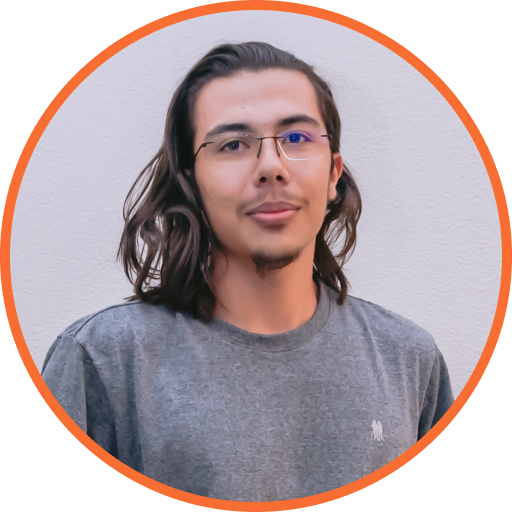
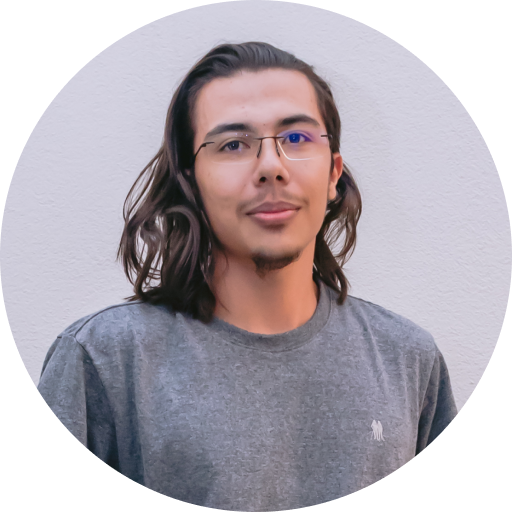
FIX: dark-side text color

Changed region(s): [[0.0, 0.0, 1.0, 1.0]]

diff --git a/src/assets/style/documentation.css b/src/assets/style/documentation.css
@@ -6,7 +6,7 @@
   --light--body-color: #fff;
 
   --dark--primary-color: var(--documentation-primary-color);
-  --dark--text-color: var(--documentation-primary-color);
+  --dark--text-color: #fff;
   --dark--body-color: #000;
 }
 
@@ -81,6 +81,17 @@ img {
   }
 }
 
+.dark-side {
+  .card {
+    img {
+      filter: brightness(1000%) saturate(0%);
+    }
+    &:hover {
+      border: 2px solid var(--text-color) !important;
+    }
+  }
+}
+
 .container-people {
   margin-top: 32px;
   display: flex !important;
@@ -99,6 +110,9 @@ img {
   .img {
     filter: brightness(0.8) saturate(0.6);
     margin-bottom: 16px;
+    background-color: var(--text-color);
+    border-radius: 50%;
+    box-shadow: 0 0 0 2px var(--text-color);
   }
 
   .left-medal,
@@ -128,11 +142,12 @@ img {
 }
 
 .person:hover {
-  color: var(--primary-color);
+  color: var(--text-color);
   cursor: pointer;
 
   .nick-name {
     opacity: 1;
+    font-size: 12px;
   }
 
   .img,

diff --git a/src/assets/style/main.css b/src/assets/style/main.css
@@ -179,8 +179,8 @@ pre code {
 .btn-outline {
   --bs-btn-color: var(--text-color) !important;
   --bs-btn-border-color: var(--text-color) !important;
-  --bs-btn-hover-bg: var(--primary-color) !important;
-  --bs-btn-hover-color: white !important;
+  --bs-btn-hover-bg: var(--body-color) !important;
+  --bs-btn-hover-color: var(--primary-color) !important;
   --bs-btn-hover-border-color: var(--primary-color) !important;
   --bs-btn-active-bg: var(--text-color) !important;
   --bs-btn-active-border-color: var(--text-color) !important;

diff --git a/src/documentation.html b/src/documentation.html
@@ -63,7 +63,7 @@
                       <img src="assets/images/medal-pap.png" alt="Trabalha no PaP" class="right-medal">
                       <div class="name">Junior</div>
                       <div class="nick-name">codinome:</div>
-                      <div class="nick-name">Pitango</div>
+                      <div class="nick-name">Chefia/Pitango</div>
                     </div>
                     <div class="person">
                       <img src="assets/images/vini-icon.png" alt="foto Vini" class="img">

diff --git a/src/hub.html b/src/hub.html
@@ -30,7 +30,7 @@
                     digitais em uma única solução.
                   </p>
                   <p>Para mais informações acesse => <a href="https://www.hubdevendas.com.br/">hubdevendas.com.br</a></p>
-                  <p><img src="assets/images/hub-website.png" alt="" class="img w-100"></p>
+                  <p><img src="assets/images/hub-website.png" alt="" class="img-hub w-100"></p>
                 </div>
               </section>
               <section id="agreements">

diff --git a/src/pap.html b/src/pap.html
@@ -29,7 +29,7 @@
                     Plataforma integrada de vendas que proporciona maior agilidade e
                     mobilidade para sua equipe de vendas.
                   </p>
-                  <p><img src="assets/images/pap-website.png" alt="" class="img w-100"></p>
+                  <p><img src="assets/images/pap-website.png" alt="" class="img-pap w-100"></p>
                 </div>
               </section>
 

diff --git a/src/assets/style/hub.css b/src/assets/style/hub.css
@@ -4,13 +4,13 @@
   --light--body-color: #fff;
 
   --dark--primary-color: var(--hub-primary-color);
-  --dark--text-color: var(--hub-primary-color);
+  --dark--text-color: #fff;
   --dark--body-color: #000001;
 }
 
 body {
-  .img {
+  .img-hub {
     border-radius: 8px;
-    box-shadow: 0px 0px 2px 0px var(--text-color);
+    box-shadow: 0px 0px 4px 0px var(--primary-color);
   }
 }

diff --git a/src/assets/style/pap.css b/src/assets/style/pap.css
@@ -4,13 +4,13 @@
   --light--body-color: #fff;
 
   --dark--primary-color: var(--pap-primary-color);
-  --dark--text-color: var(--pap-primary-color);
+  --dark--text-color: #fff;
   --dark--body-color: #010001;
 }
 
 body {
-  .img {
+  .img-pap {
     border-radius: 8px;
-    box-shadow: 0px 0px 2px 0px var(--text-color);
+    box-shadow: 0px 0px 2px 0px var(--primary-color);
   }
 }
